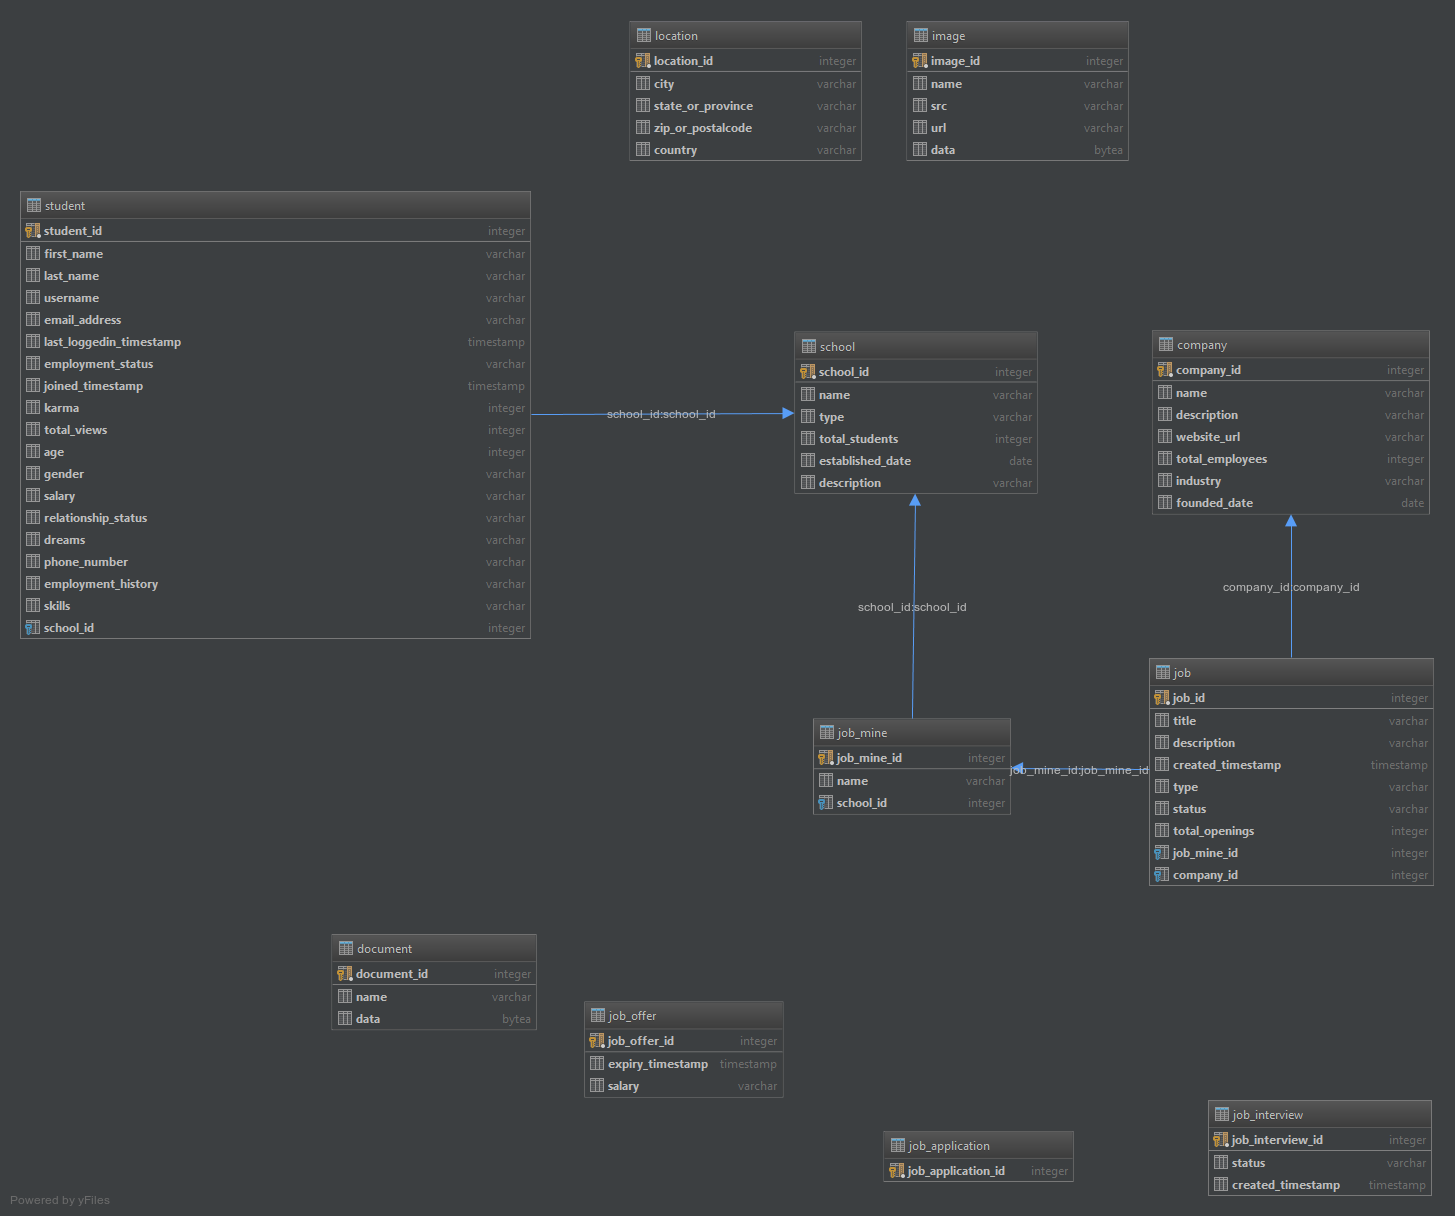
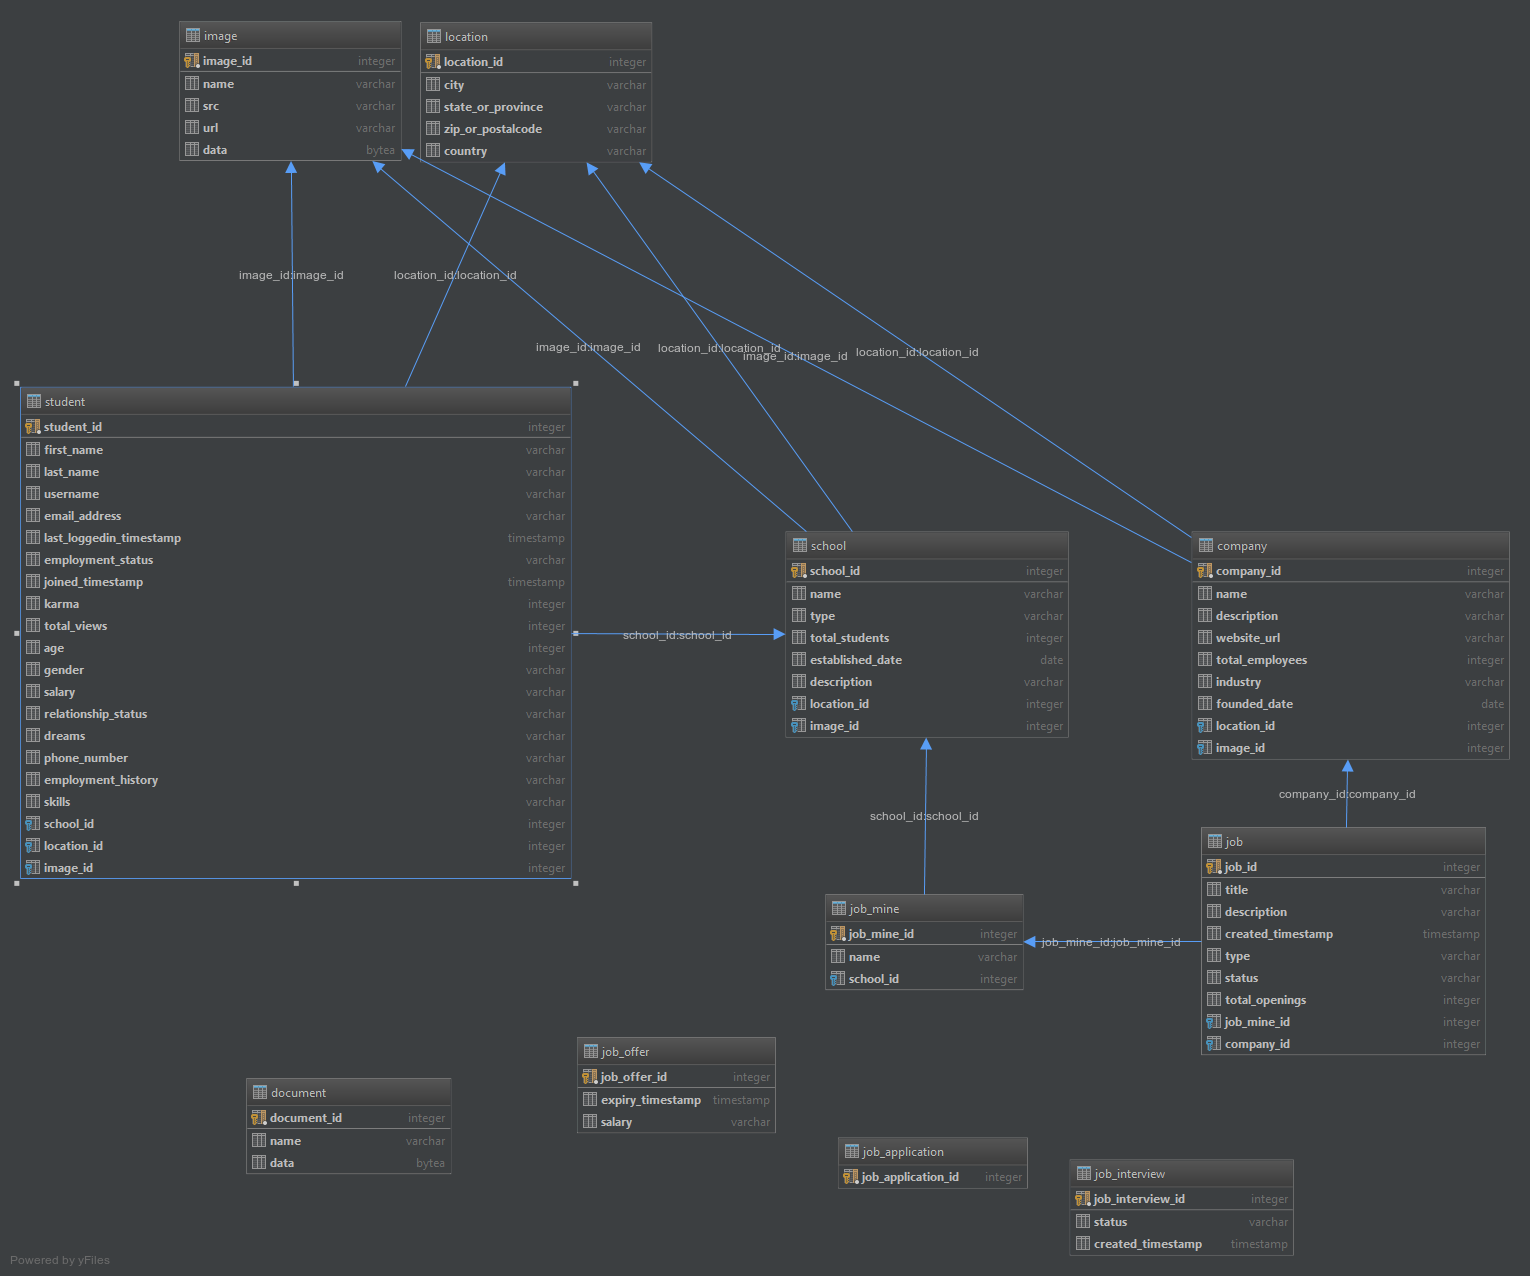
schema progress + cool linecount command

diff --git a/README.md b/README.md
@@ -19,3 +19,7 @@ taskkill /F /PID <pid>
 # Heroku #
 
 https://jobmine-app.herokuapp.com/index.html
+
+# Total lines of code report #
+
+git ls-files | xargs wc -l
